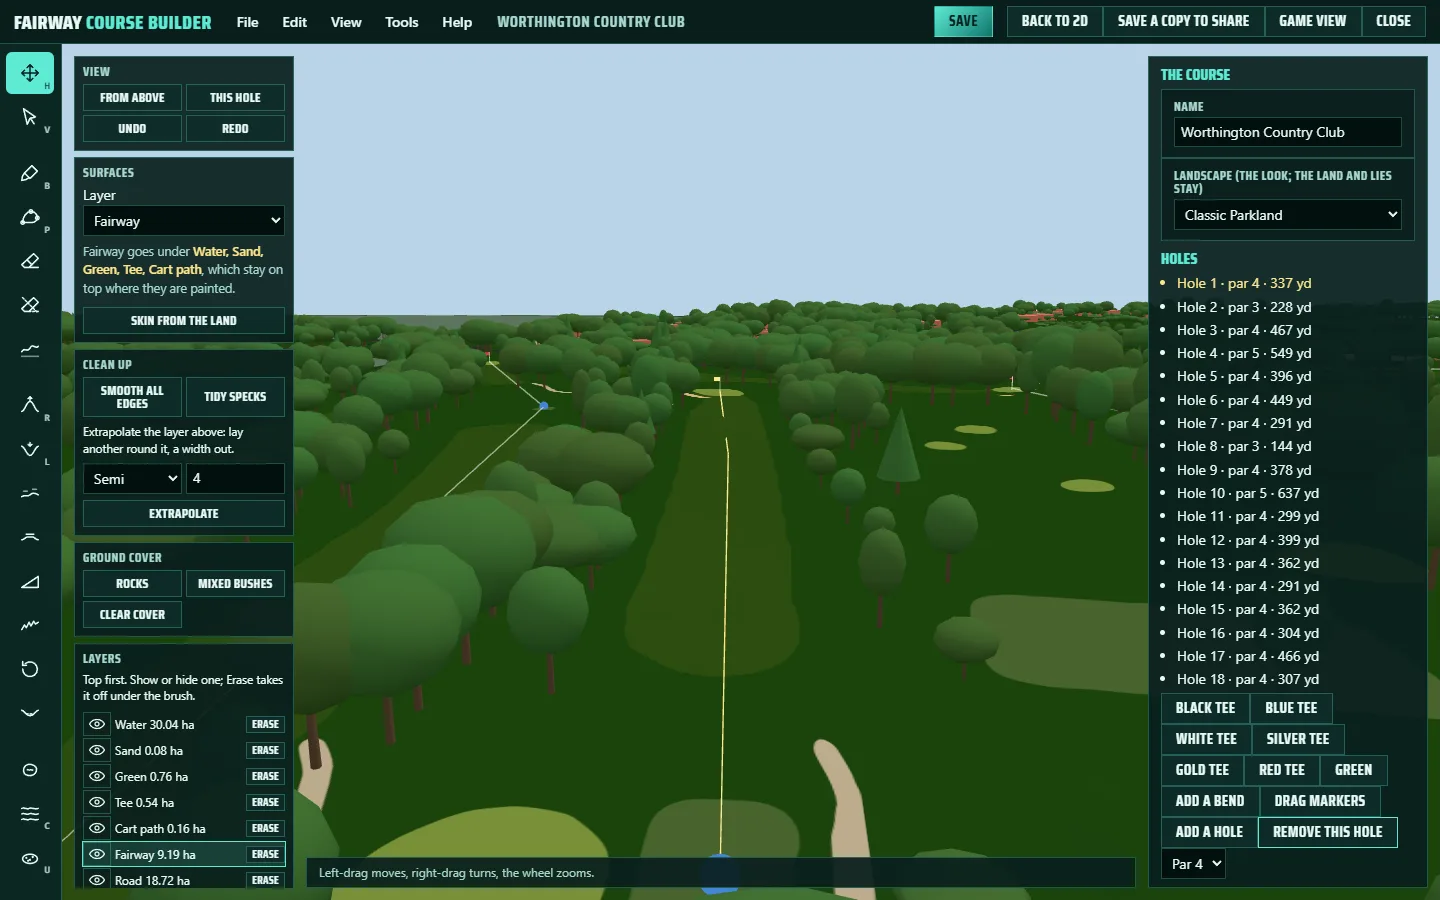
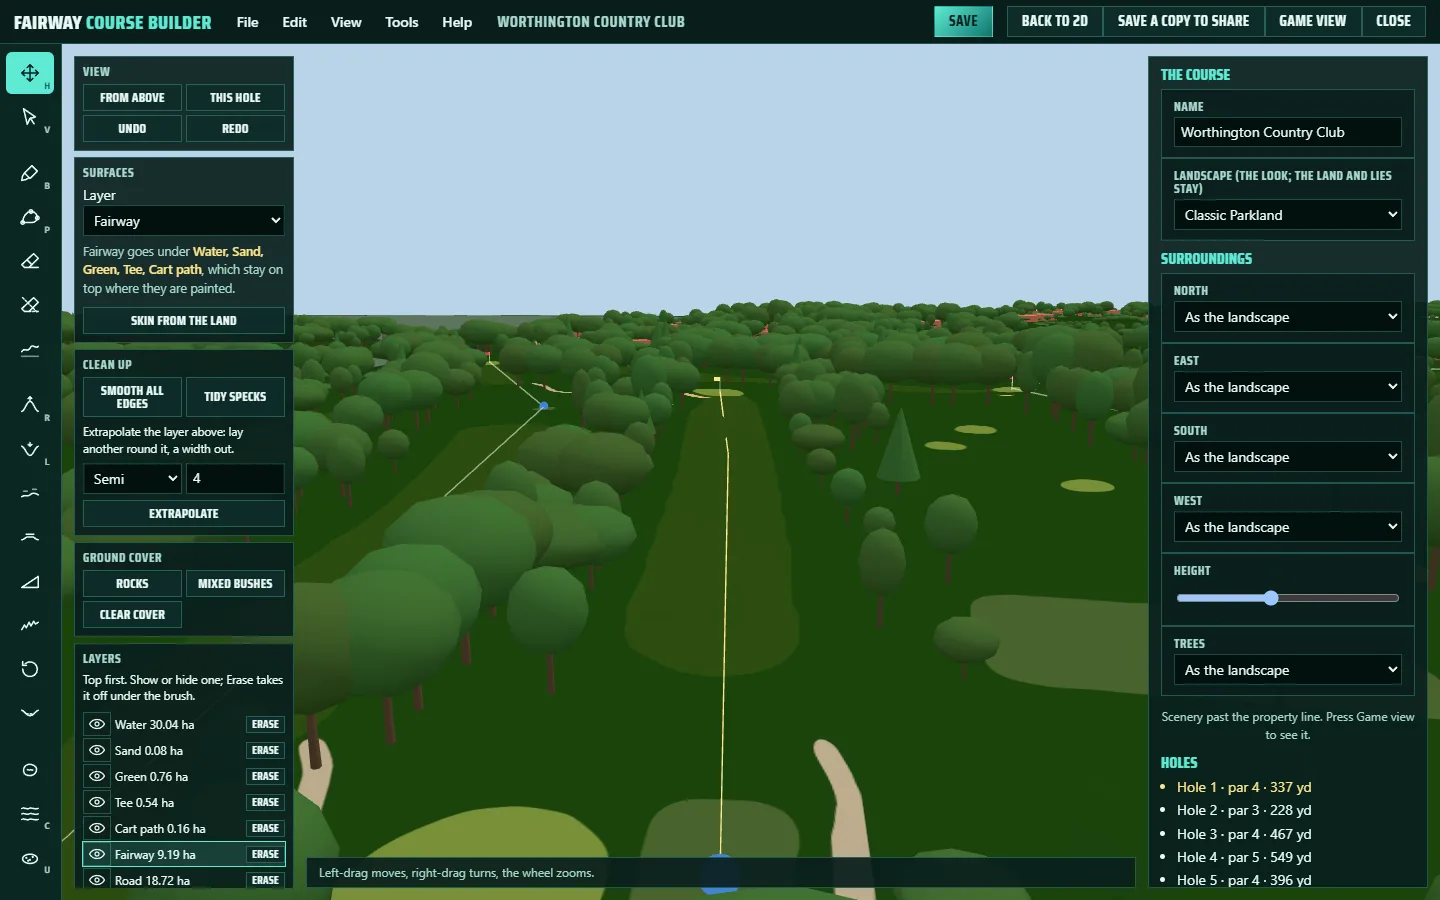
The far trees drawn after everything solid; the comparison with 0.9.14
Far trees were drawn before everything else, as the far woods had been, so
from a tee most of them were shaded and then painted over by the course's
own stands: 2.1 to 3.1% of an Ultra frame, measured on one page with them
switched off and on. Each piece's trees are now in order from the property
line outward and drawn after everything solid, before the ground: about 1%.

Against 0.9.14, two builds taking turns (docs/SURROUNDINGS.md, round 9):
Low 2% faster, Medium level, Ultra 0.5 to 4% faster at the card, High on
Mountain level from above and 0.6 to 1.4% slower at two tees, which is as
much as one build's own runs differ and is written down as not shown to be
level. Course load equal. Triangles a frame level or fewer on every tier.

Smoke on the final build: the game's 41 of 41 journeys and the builder's 10
of 10, the new builder-surroundings journey among them. The builder
guide's editor picture retaken with the Surroundings block.

Changed region(s): [[0.8125, 0.28, 0.9688, 0.9956]]

diff --git a/docs/SURROUNDINGS.md b/docs/SURROUNDINGS.md
@@ -349,9 +349,17 @@ were (render order -1), because from a tee most of them are behind the
 course's own stands and were shaded and painted over. Drawn after
 everything solid and before the ground (.5 to .7) they cost about 1%, and
 the unchanged frame fell from 4.48-4.61 ms to 4.42-4.49 at tee 1 and from
-4.70 to 4.61 at tee 5. The far ground costs 0.5%. **No two-build comparison
-has been run since that last change**; the figures in the table are from
-before it.
+4.70 to 4.61 at tee 5. The far ground costs 0.5%.
+
+The two builds compared again after that change (`bench/ab/sur-r11-*.json`,
+three rounds, card time at tee 1, tee 5 and 250 m up): Ultra on Classic
+Parkland 4.59, 4.88 and 5.94 ms on 0.9.14 against 4.51, 4.67 and 5.91 ms on
+the branch -- faster at every spot; High on Mountain 6.16, 6.37 and 7.15 ms
+against 6.20, 6.46 and 7.15 ms -- level from above and 0.04 to 0.09 ms (0.6
+to 1.4%) slower at the two tees, where one build's own runs differ by as
+much (6.14 to 6.20; 6.32 to 6.42). Course load 14.5 s against 14.9 s and
+15.1 s against 15.3 s. So: Low 2% faster, Medium level, Ultra 0.5 to 4%
+faster, High on Mountain within 1.4% and not shown to be level.
 
 **The Surroundings block pressed in the builder's own page**
 (`tools/builder-journeys/surroundings.mjs`, the `builder-surroundings`
@@ -359,7 +367,10 @@ journey): a nine grown and taken over; a mountain north, the sea east, a
 lake south, mesas west, Height 1.4, Trees half wooded; the editor holds
 exactly that record; Game view draws it and goes back; the saved file's
 record read back; every side set back leaves none; the game opens the file
-and a shot is played, no errors. 1,599 Node tests pass.
+and a shot is played, no errors. 1,599 Node tests pass. On the final build
+every smoke journey passes: the game's 41 of 41 and the builder's 10 of 10
+(13 November 2026). The builder guide's editor picture was retaken with the
+block in it (docs/builder-guide/editor.webp).
 
 **Not as the plan said.** Step 4 planned a `surround` recipe for every
 landscape in biomes.js. What was built is narrower: each landscape keeps its

diff --git a/docs/TODO.md b/docs/TODO.md
@@ -118,13 +118,13 @@ wrong, unfinished, or owed a check.
 - [ ] **The surroundings rework (branch `surroundings-rework`), open** (12-13
   November 2026; docs/SURROUNDINGS.md). **Mountain's forest floor reads dark
   and flat where the trees are thin** (ground.js, the floor tone under the
-  far trees; SURROUNDINGS round 5). **One two-build frame comparison is owed**
-  (`tools/frame-ab.mjs` against 0.9.14) since the far trees were moved to
-  draw after everything solid: before that move High and Ultra were 1 to 2%
-  slower at a tee and level from above, Medium level, Low 2% faster
-  (SURROUNDINGS, round 9), and the move was measured only on one page. **The builder guide's editor picture
-  owes a retake**: it lacks the Surroundings block
-  (`tools/capture/builder-guide.mjs`, graphics card, asked for first).
+  far trees; SURROUNDINGS round 5). **High on Mountain is not shown to be level
+  with 0.9.14**: 0.04 to 0.09 ms (0.6 to 1.4%) slower at the two tees in the
+  last comparison, level from above, where one build's own runs differ by as
+  much; Ultra is faster, Medium level, Low 2% faster (SURROUNDINGS, round 9).
+  What is left to take out is the far trees' shading at a tee on a landscape
+  whose slopes stand over the course's own trees (the haze worked out a
+  pixel; it could be worked out a corner of each picture).
   **`bench/baseline.json` still holds the far woods' `farSeated` keys** until
   the next `node tools/bench.mjs --save`; the `surround` metric has no
   baseline until then. Not gone through one landscape at a time against

diff --git a/docs/RESEARCH.md b/docs/RESEARCH.md
@@ -15015,8 +15015,16 @@ all four (Mountain's 2.8 s in the table above was noise: 14.9 s and 14.8 s
 over three runs each). The far trees alone, switched off and on in one page
 (`tools/frame-variants.mjs`): 2.1 to 3.1% of an Ultra frame drawn before
 everything else, about 1% drawn after everything solid and before the
-ground, which is how they are drawn; no two-build comparison has been run
-since that last change. No phone or software-renderer run.
+ground, which is how they are drawn. The two builds compared again after that change (`bench/ab/sur-r11-*.json`,
+three rounds, card time at tee 1, tee 5 and 250 m up): Ultra on Classic
+Parkland 4.59, 4.88 and 5.94 ms on 0.9.14 against 4.51, 4.67 and 5.91 ms on
+the branch -- faster at every spot; High on Mountain 6.16, 6.37 and 7.15 ms
+against 6.20, 6.46 and 7.15 ms -- level from above and 0.04 to 0.09 ms (0.6
+to 1.4%) slower at the two tees, where one build's own runs differ by as
+much (6.14 to 6.20; 6.32 to 6.42). Course load 14.5 s against 14.9 s and
+15.1 s against 15.3 s. So: Low 2% faster, Medium level, Ultra 0.5 to 4%
+faster, High on Mountain within 1.4% and not shown to be level.
+No phone or software-renderer run.
 
 **A course's own surroundings** (surround-sides.js, landscape-edge.js
 `sidedRelief`), all PLACED: hills 160 m, a range 850 m, one mountain 900 m
